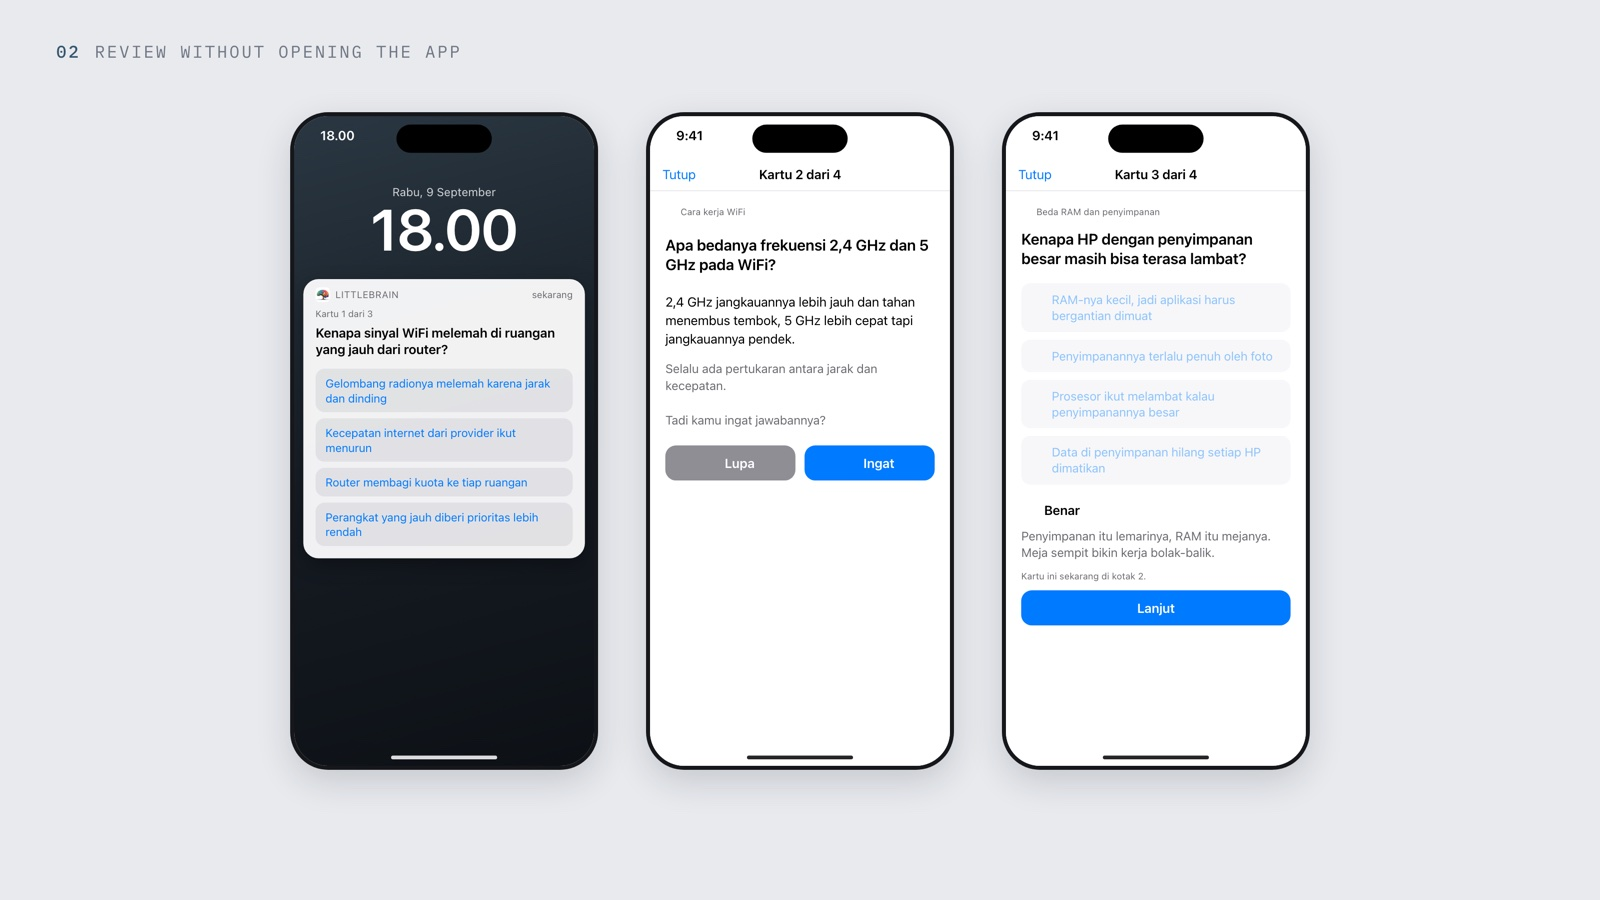
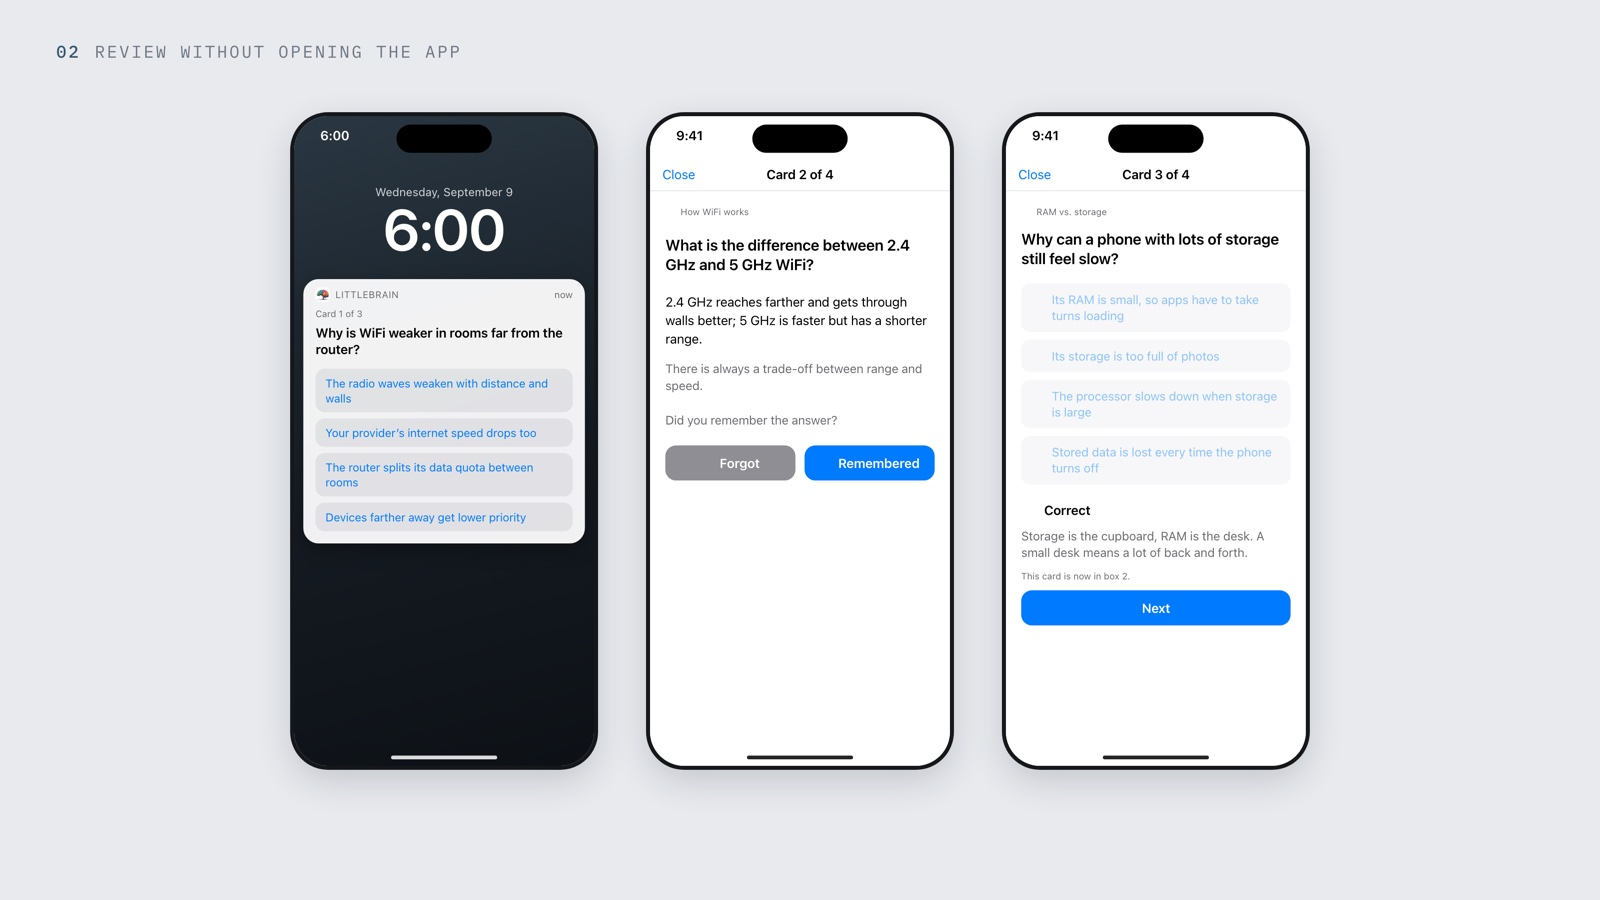
Image of ‘littlebrain’ in the portfolio in English

diff --git a/data.js b/data.js
@@ -125,7 +125,7 @@ const CONFIG = {
           "written by Apple's on-device Foundation Models, and every model output is " +
           "checked in Swift before it reaches the screen.",
         icon: "🌱",
-        image: "littlebrain-card.jpg",
+        image: "littlebrain-card.jpg?v=2",
         demoVideo: "",
         tags: ["Foundation Models","Translation","SwiftData","App Intents","WidgetKit","SwiftUI"],
         links: [],
@@ -137,7 +137,7 @@ const CONFIG = {
             "Cards come back through interactive notifications you can answer without opening the app, a widget, and the app itself. Five Leitner boxes space each card out from 1 to 30 days.",
           ],
           highlights: [ { label: "Foundation Models", value: "On-device" }, { label: "Review", value: "5 Leitner boxes" }, { label: "Unit tests", value: "406" } ],
-          images: ["littlebrain-capture.jpg", "littlebrain-review.jpg", "littlebrain-track.jpg"],
+          images: ["littlebrain-capture.jpg?v=2", "littlebrain-review.jpg?v=2", "littlebrain-track.jpg?v=2"],
           video: "",
         },
       },

diff --git a/index-3d.html b/index-3d.html
@@ -209,7 +209,7 @@ h2{font-family:'Space Grotesk',sans-serif;font-size:clamp(1.9rem,4.2vw,3rem);fon
 {"imports":{"three":"https://unpkg.com/three@0.160.0/build/three.module.js","three/addons/":"https://unpkg.com/three@0.160.0/examples/jsm/"}}
 </script>
 <!-- ?v= dinaikkan tiap kali data.js berubah, supaya browser tidak memakai salinan lama -->
-<script src="data.js?v=6"></script>
+<script src="data.js?v=7"></script>
 <script type="module">
 // Semua teks diambil dari data.js, sama seperti halaman classic.
 // Ubah di sana sekali, dua halaman ikut berubah.

diff --git a/index.html b/index.html
@@ -18,7 +18,7 @@
 </head>
 <body>
 <!-- ?v= dinaikkan tiap kali data.js berubah, supaya browser tidak memakai salinan lama -->
-<script src="data.js?v=6"></script>
+<script src="data.js?v=7"></script>
 
 <style>
 :root{--bg:#06080f;--bg2:#0d1117;--ac:#7c6aef;--acg:rgba(124,106,239,.3);--t1:#e8e4df;--t2:#8b8d94;--t3:#52545c;--coral:#f77171;--teal:#5eead4;--amber:#fbbf24;--spot:350px}
